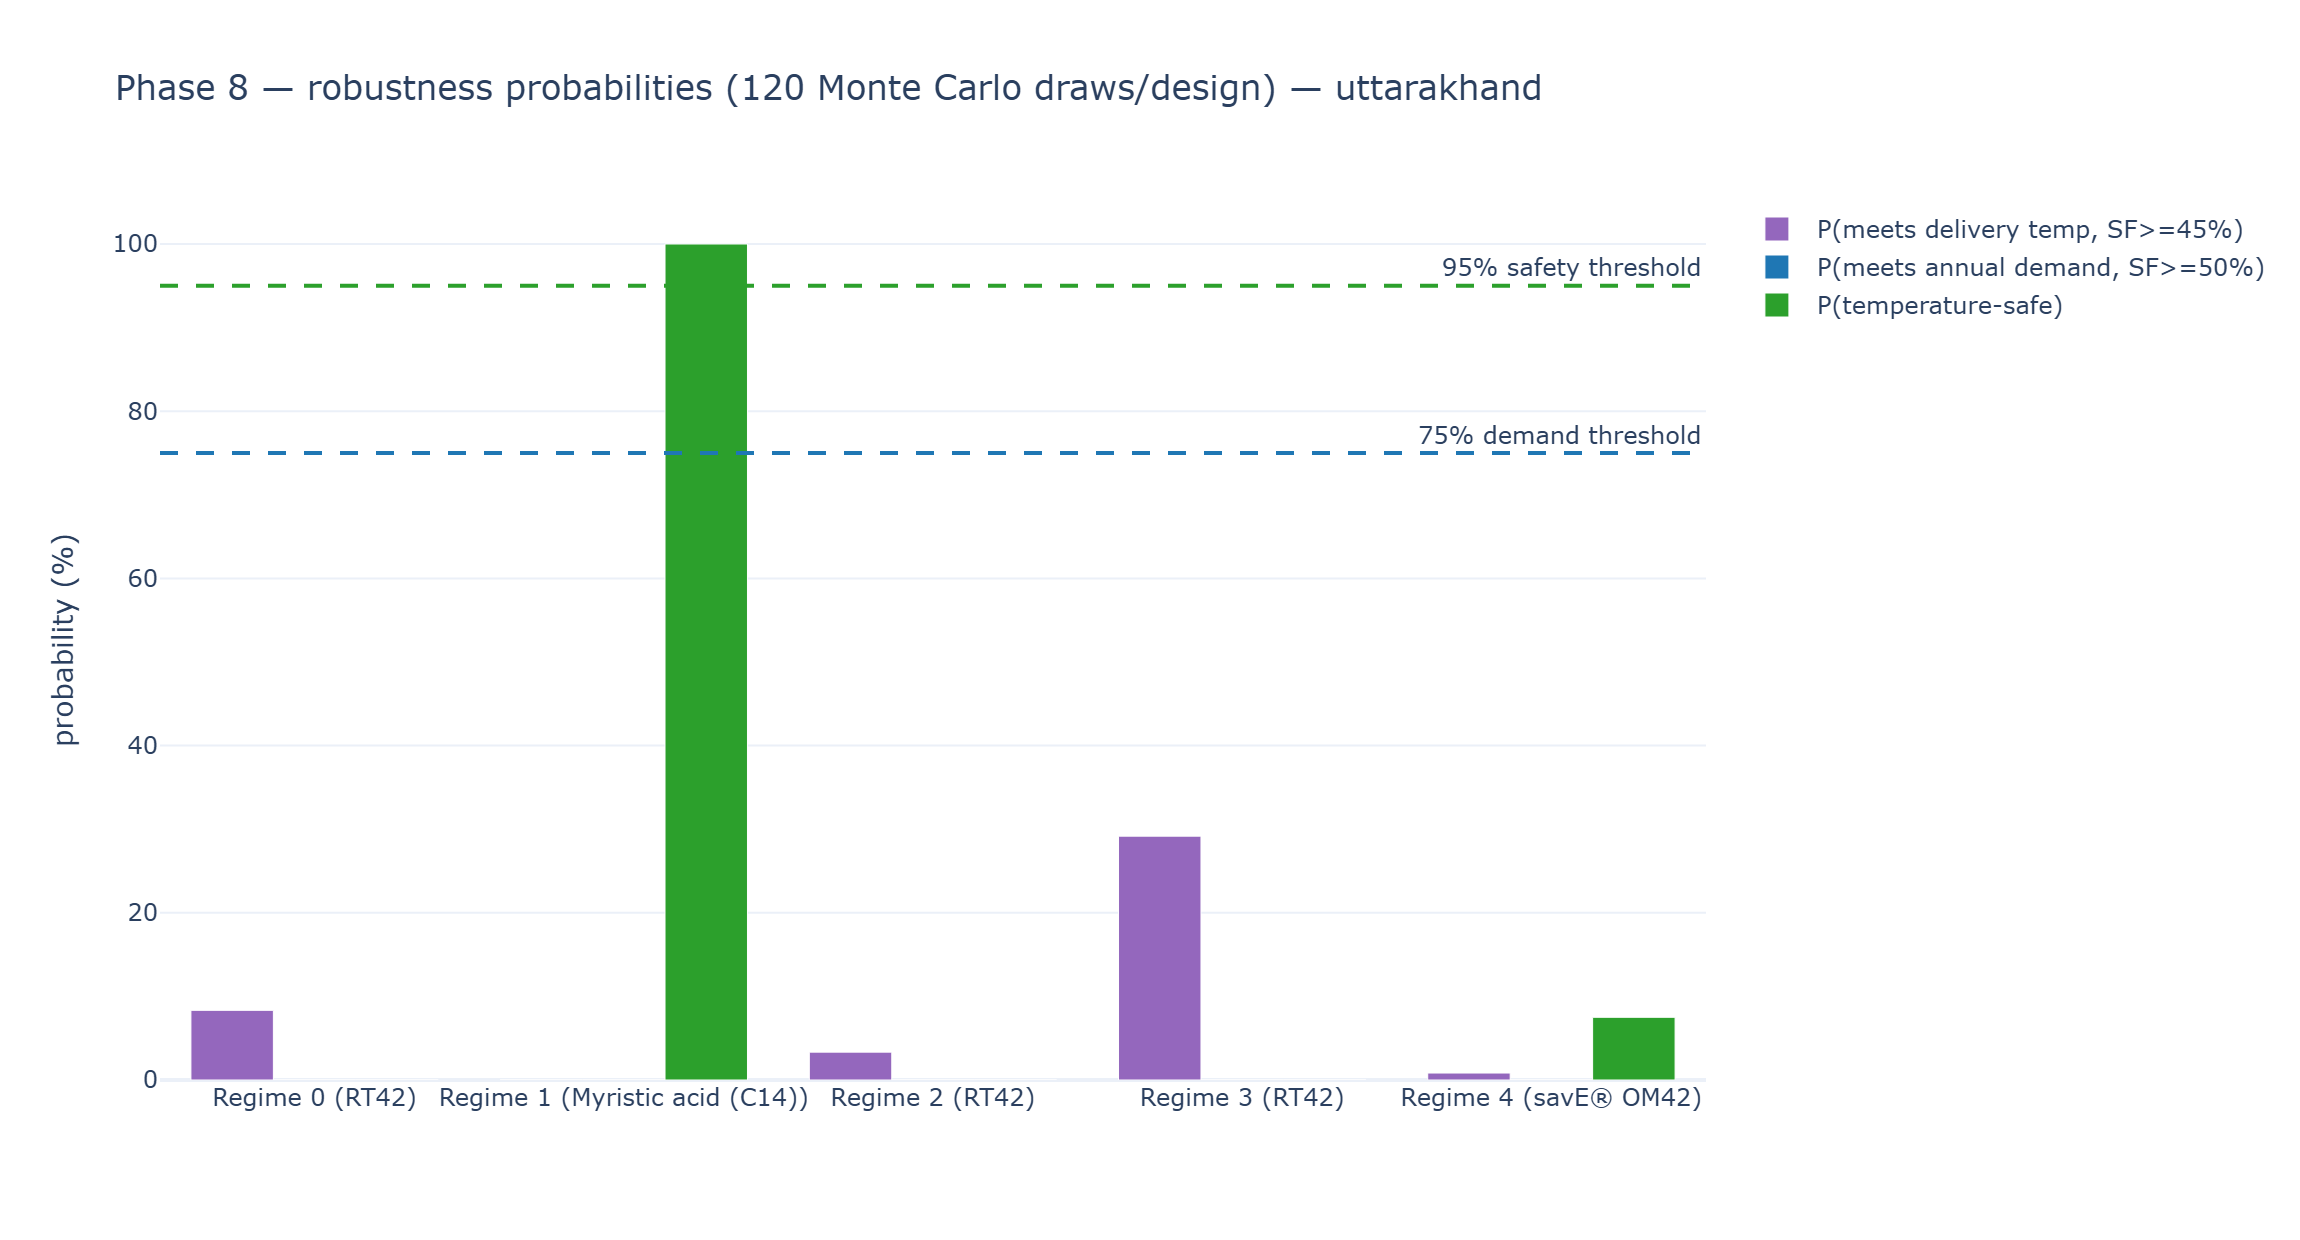
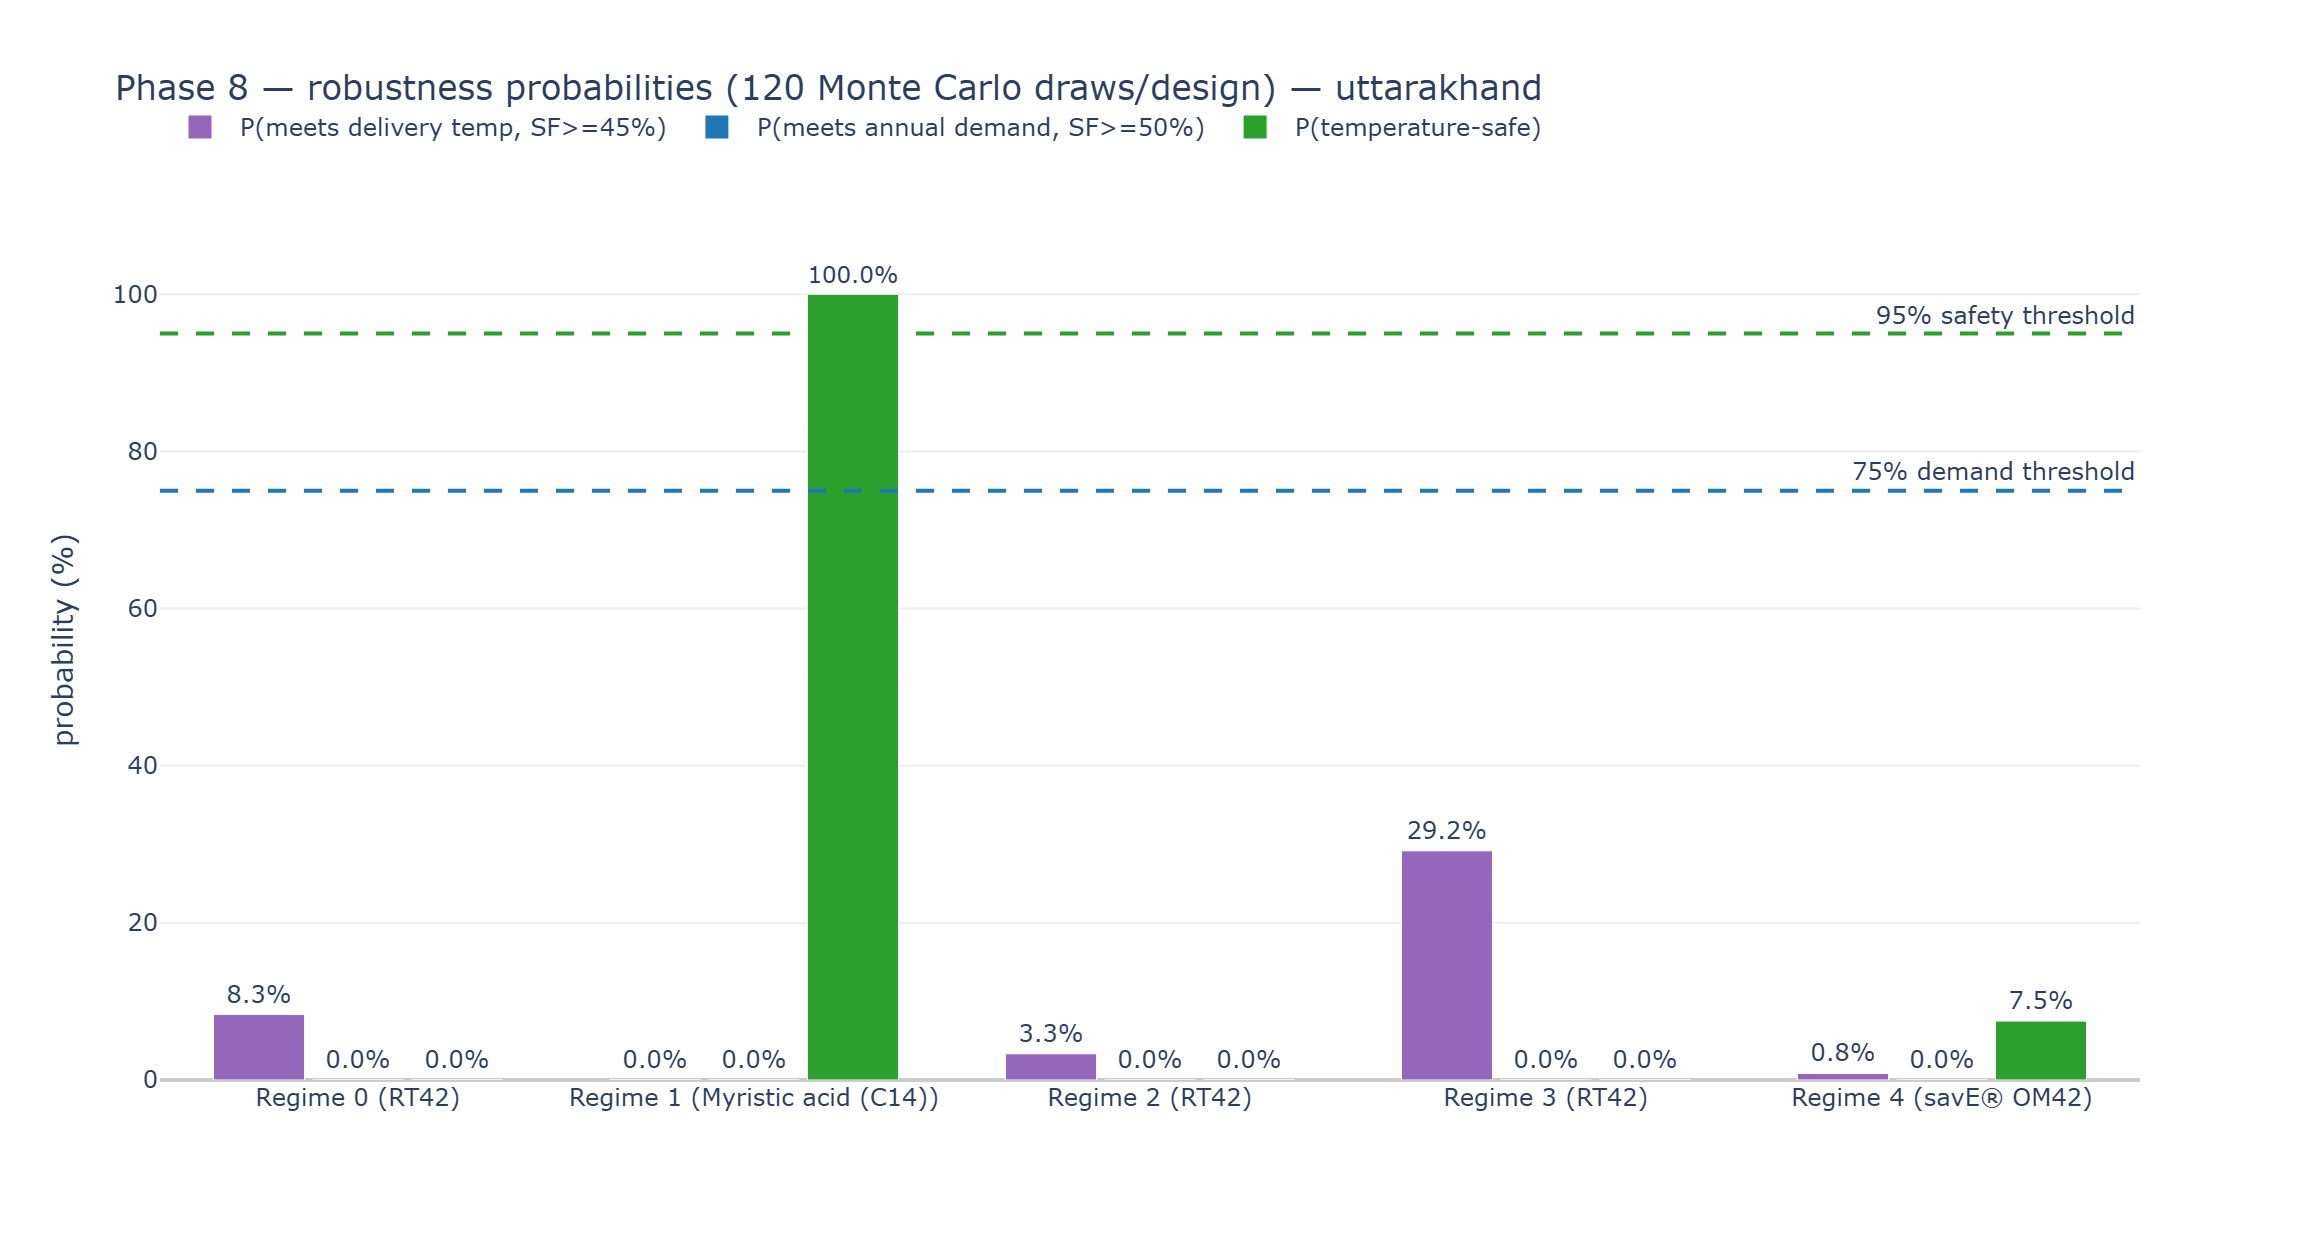
fix(uttarakhand): add explicit percentage labels to Phase 8 robustness bar chart
Bars at 0% or 100% render with zero height or hit the axis ceiling,
which read as missing/broken rather than as the real answer. Every
bar in phase8_robustness_probabilities now carries a text label with
its exact value, so genuinely-zero and genuinely-100% results are
still visible. No underlying numbers changed.

diff --git a/objective2-uttarakhand/src/plots/make_plots.py b/objective2-uttarakhand/src/plots/make_plots.py
@@ -366,18 +366,41 @@ def phase7_surrogate_vs_simulator(state, out_dir, optimized):
 
 
 def phase8_robustness_probabilities(state, out_dir, robustness_summary):
+    """
+    Visual-density improvement (2026-09-14): many bars in this chart are
+    genuinely 0% (e.g. P(meets annual demand) for every Uttarakhand regime)
+    or genuinely 100% (regime 1's temperature safety) -- a bar of zero
+    height renders as nothing, which reads as "missing/broken" rather than
+    "the real answer is zero." Every bar now carries an explicit percentage
+    label so the true value is visible even when the bar itself is
+    invisible or pinned at the axis limit. This does not change any number,
+    only how it is displayed.
+    """
     labels = [f"Regime {r} ({p})" for r, p in zip(robustness_summary["regime_id"], robustness_summary["pcm_id"])]
+    delivery = robustness_summary["p_meets_delivery_temp"] * 100
+    demand = robustness_summary["p_meets_annual_demand"] * 100
+    temp_safe = (1 - robustness_summary["p_temperature_violation"]) * 100
+
     fig = go.Figure()
-    fig.add_trace(go.Bar(x=labels, y=robustness_summary["p_meets_delivery_temp"] * 100,
-                          name="P(meets delivery temp, SF>=45%)", marker_color="#9467bd"))
-    fig.add_trace(go.Bar(x=labels, y=robustness_summary["p_meets_annual_demand"] * 100,
-                          name="P(meets annual demand, SF>=50%)", marker_color="#1f77b4"))
-    fig.add_trace(go.Bar(x=labels, y=(1 - robustness_summary["p_temperature_violation"]) * 100,
-                          name="P(temperature-safe)", marker_color="#2ca02c"))
+    fig.add_trace(go.Bar(x=labels, y=delivery, name="P(meets delivery temp, SF>=45%)",
+                          marker_color="#9467bd", text=[f"{v:.1f}%" for v in delivery],
+                          textposition="outside", textfont=dict(size=12), cliponaxis=False))
+    fig.add_trace(go.Bar(x=labels, y=demand, name="P(meets annual demand, SF>=50%)",
+                          marker_color="#1f77b4", text=[f"{v:.1f}%" for v in demand],
+                          textposition="outside", textfont=dict(size=12), cliponaxis=False))
+    fig.add_trace(go.Bar(x=labels, y=temp_safe, name="P(temperature-safe)",
+                          marker_color="#2ca02c", text=[f"{v:.1f}%" for v in temp_safe],
+                          textposition="outside", textfont=dict(size=12), cliponaxis=False))
     fig.add_hline(y=75, line_dash="dash", line_color="#1f77b4", annotation_text="75% demand threshold")
     fig.add_hline(y=95, line_dash="dash", line_color="#2ca02c", annotation_text="95% safety threshold")
-    fig.update_layout(barmode="group", title=f"Phase 8 — robustness probabilities (120 Monte Carlo draws/design) — {state}",
-                       yaxis_title="probability (%)")
+    fig.update_layout(
+        barmode="group", bargap=0.25, bargroupgap=0.08,
+        title=f"Phase 8 — robustness probabilities (120 Monte Carlo draws/design) — {state}",
+        yaxis_title="probability (%)", yaxis_range=[0, 112],
+        plot_bgcolor="white", legend=dict(orientation="h", yanchor="bottom", y=1.05, xanchor="left", x=0),
+    )
+    fig.update_xaxes(showgrid=False)
+    fig.update_yaxes(showgrid=True, gridcolor="#eeeeee", zeroline=True, zerolinecolor="#cccccc")
     _save(fig, "phase8_robustness_probabilities", out_dir, width=1150)
 
 
